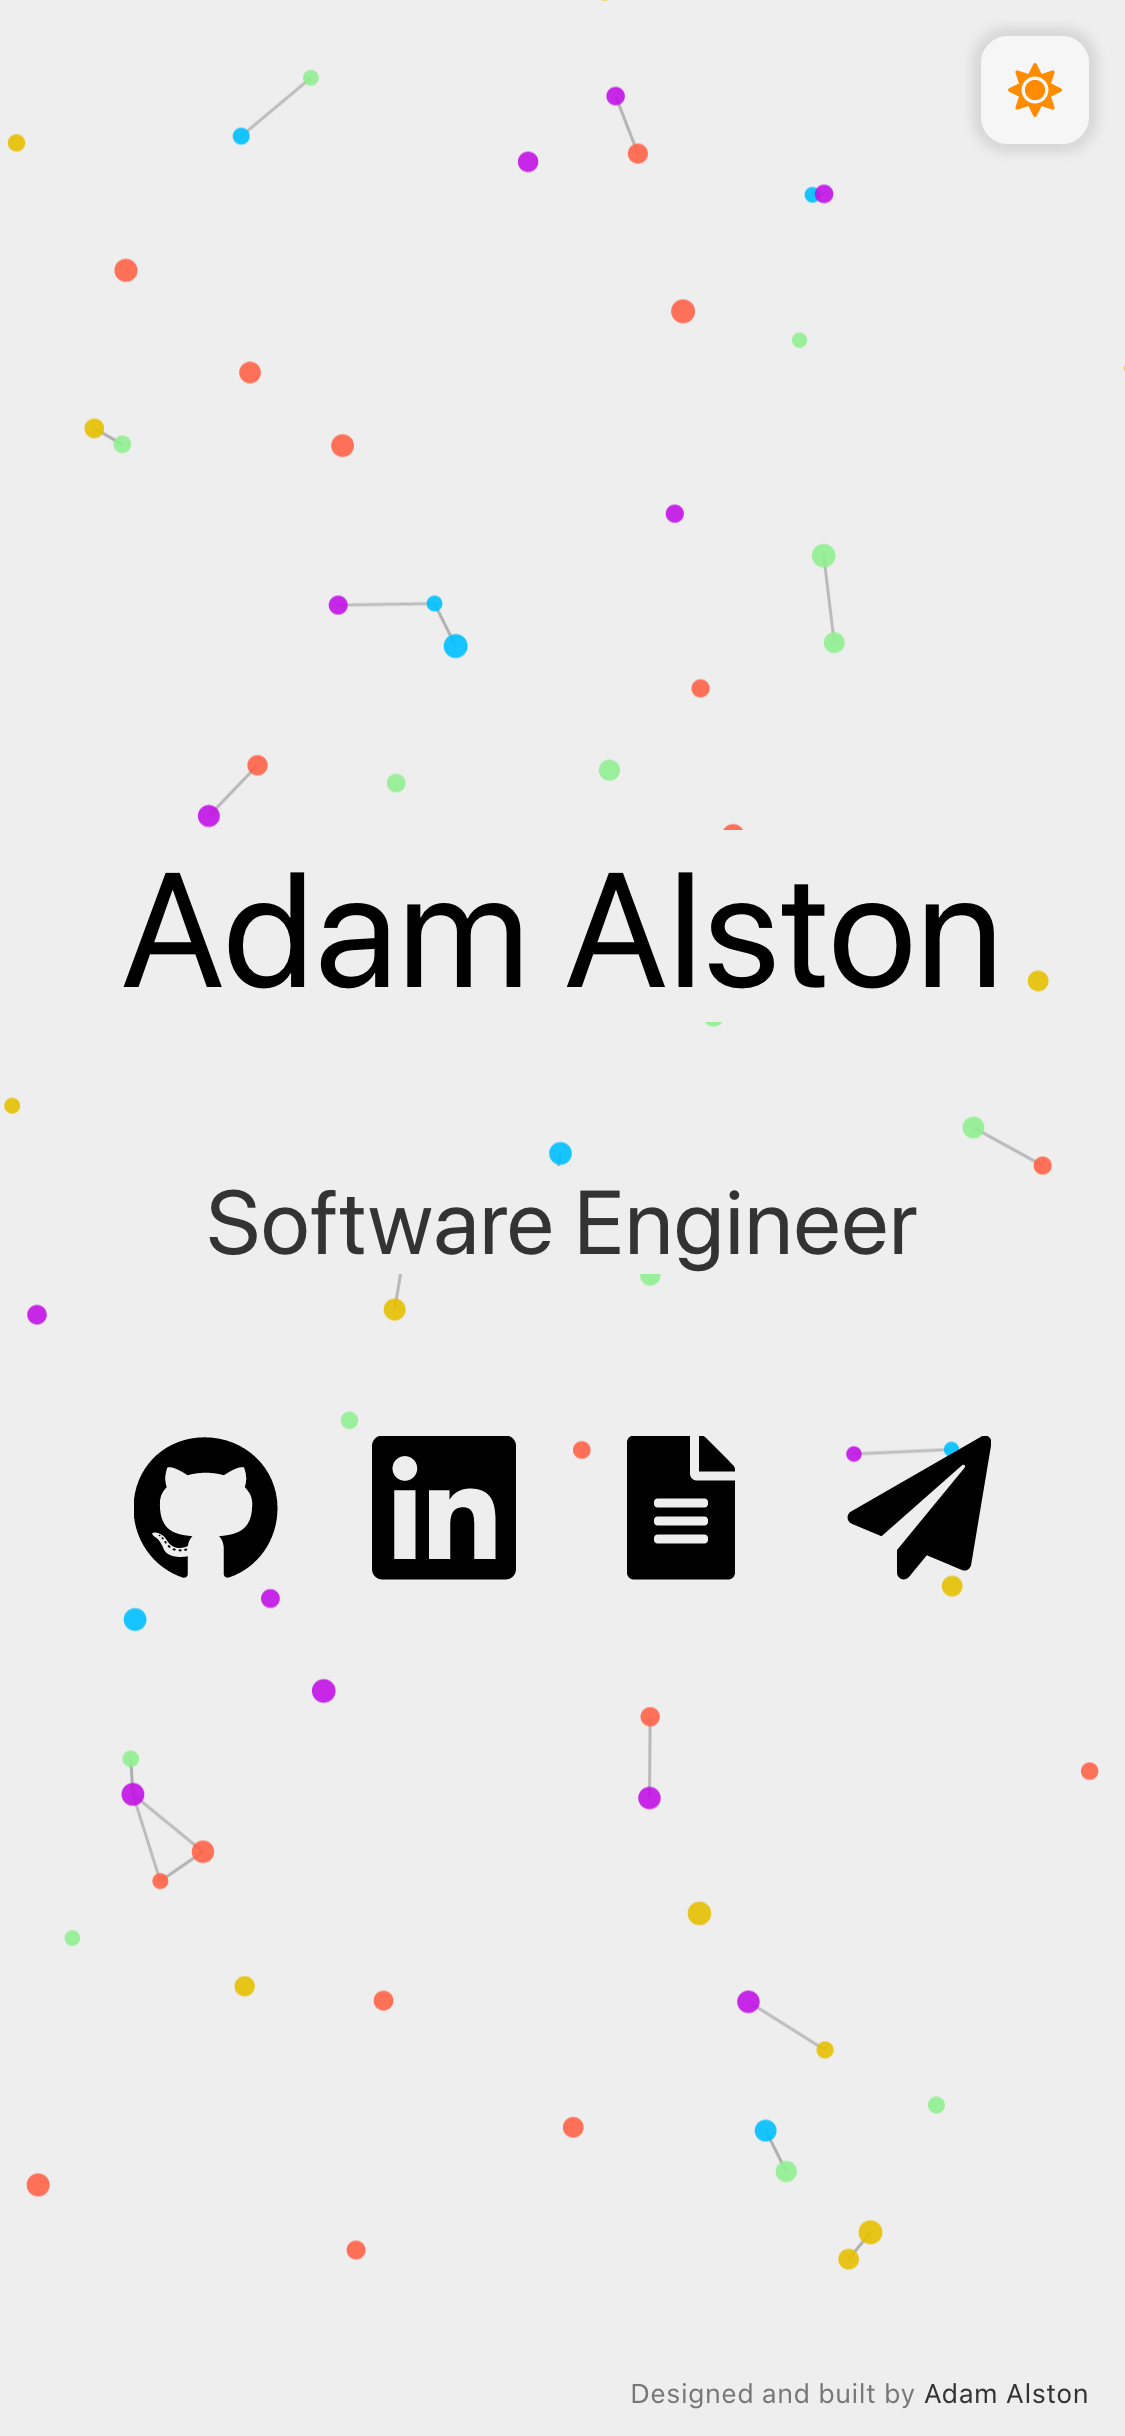
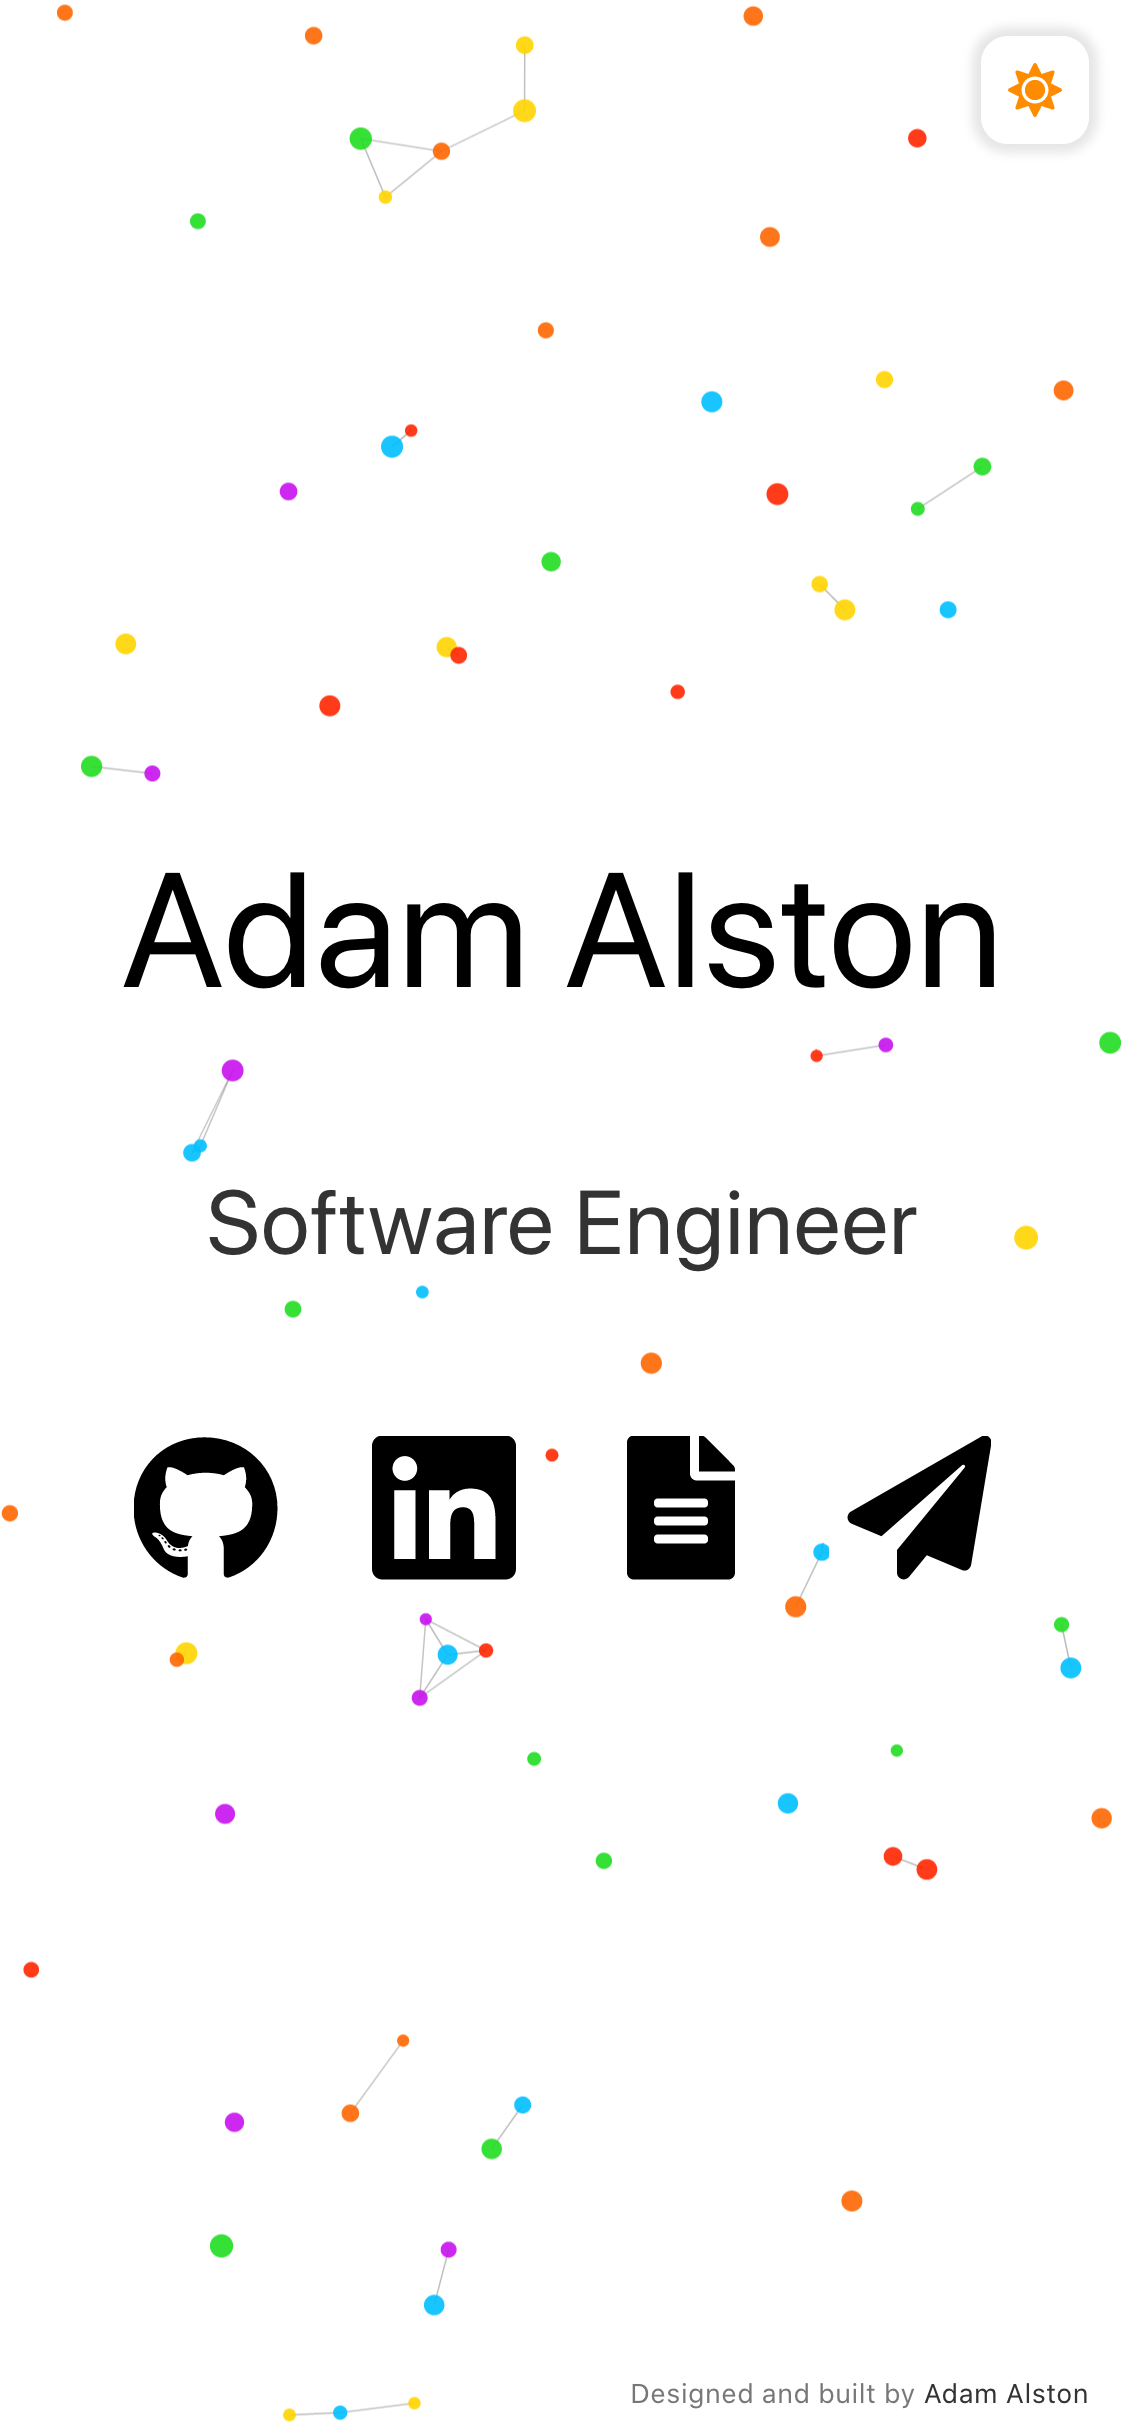
more colors

diff --git a/src/components/Particles.jsx b/src/components/Particles.jsx
@@ -12,11 +12,12 @@ const PARAMS = {
         },
         "color": {
             "value": [
-                "C311E7",
+                "C912ED",
                 "00BFFF",
-                "90EE90",
-                "E6BF00",
-                "FF6347",
+                "22DD22",
+                "FFD500",
+                "FF8000",
+                "FF2600",
             ]
         },
         "shape": {

diff --git a/README.md b/README.md
@@ -42,18 +42,20 @@ Font Awesome icons
 
 ## <img src="https://git.io/JUnT0" height="18px"> Color Reference
 
-Text and icons meet a color contrast ratio of 4.5:1 against the background of the website, conforming with [WCAG 2.1](https://www.w3.org/TR/WCAG21/) Section 1.4.3.
+Text and icons meet a color contrast ratio of 7:1 against the background of the website, conforming with [WCAG 2.1](https://www.w3.org/TR/WCAG21/) Section 1.4.6.
 
-| Name   |                          Color                           | Hex       |
-| ------ | :------------------------------------------------------: | --------- |
-| Black  | ![#000000](https://via.placeholder.com/16/000000?text=+) | `#000000` |
-| Purple | ![#C311E7](https://via.placeholder.com/16/C311E7?text=+) | `#C311E7` |
-| Blue   | ![#00BFFF](https://via.placeholder.com/16/00BFFF?text=+) | `#00BFFF` |
-| Green  | ![#90EE90](https://via.placeholder.com/16/90EE90?text=+) | `#90EE90` |
-| Gold   | ![#E6BF00](https://via.placeholder.com/16/E6BF00?text=+) | `#E6BF00` |
-| Red    | ![#FF6347](https://via.placeholder.com/16/FF6347?text=+) | `#FF6347` |
-| Silver | ![#BBBBBB](https://via.placeholder.com/16/BBBBBB?text=+) | `#BBBBBB` |
-| Smoke  | ![#EEEEEE](https://via.placeholder.com/16/EEEEEE?text=+) | `#EEEEEE` |
+| Name   |                          Color                          | Hex      |
+| ------ | :-----------------------------------------------------: | -------- |
+| Black  | ![000000](https://via.placeholder.com/16/000000?text=+) | `000000` |
+| Slate  | ![333333](https://via.placeholder.com/16/333333?text=+) | `333333` |
+| Purple | ![C912ED](https://via.placeholder.com/16/C912ED?text=+) | `C912ED` |
+| Blue   | ![00BFFF](https://via.placeholder.com/16/00BFFF?text=+) | `00BFFF` |
+| Green  | ![22DD22](https://via.placeholder.com/16/22DD22?text=+) | `22DD22` |
+| Gold   | ![FFD500](https://via.placeholder.com/16/FFD500?text=+) | `FFD500` |
+| Orange | ![FF8000](https://via.placeholder.com/16/FF8000?text=+) | `FF8000` |
+| Red    | ![FF2600](https://via.placeholder.com/16/FF2600?text=+) | `FF2600` |
+| Silver | ![CCCCCC](https://via.placeholder.com/16/CCCCCC?text=+) | `CCCCCC` |
+| White  | ![FFFFFF](https://via.placeholder.com/16/FFFFFF?text=+) | `FFFFFF` |
 
 ---
 
